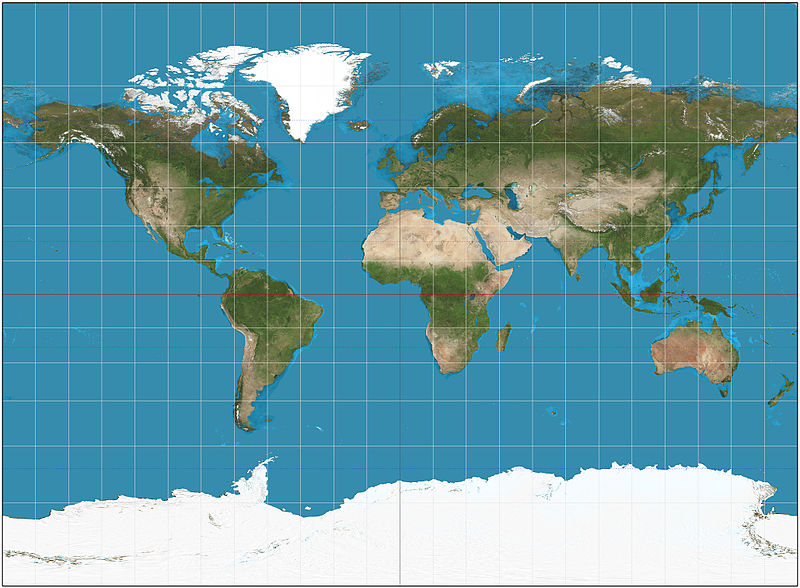
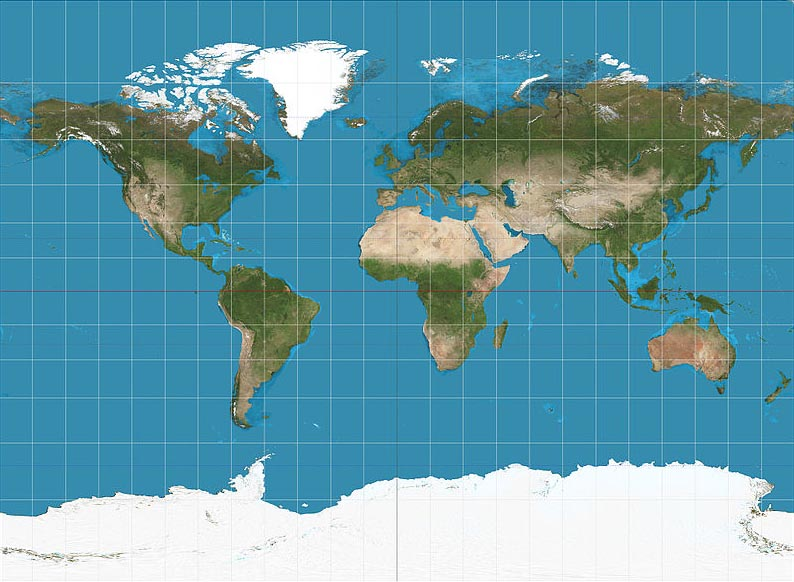
Map styling.

diff --git a/elements/calendar-app.html b/elements/calendar-app.html
@@ -3,7 +3,6 @@ Lets user preview, configure, and print an annual wall calendar.
 -->
 
 <link rel="import" href="../components/polymer/polymer.html">
-<link rel="import" href="../components/globalize-culture/globalize-culture.html">
 <link rel="import" href="sticky-note.html">
 <link rel="import" href="world-map.html">
 <link rel="import" href="year-calendar.html">
@@ -13,7 +12,9 @@ Lets user preview, configure, and print an annual wall calendar.
 <template>
 
   <style>
-  :host {
+  :host,
+  input,
+  select {
     font-family: "Myriad Pro", "Helvetica Neue", Helvetica, Arial, sans-serif;
     font-size: 15px;
   }
@@ -24,6 +25,7 @@ Lets user preview, configure, and print an annual wall calendar.
 
   #container > :not(last-child) {
     margin-bottom: 2em;
+    margin-right: 2em;
   }
 
   world-map {
@@ -49,12 +51,11 @@ Lets user preview, configure, and print an annual wall calendar.
 
   <div id="container">
 
-    <world-map></world-map>
-
     <sticky-note id="intro" class="noprint">
       <h3>Print a handy wall calendar!</h3>
-      <globalize-culture culture="{{culture}}"></globalize-culture>
     </sticky-note>
+
+    <world-map culture="{{culture}}"></world-map>
 
     <year-calendar id="nextYearCalendar" culture="{{culture}}"></year-calendar>
     <year-calendar id="currentYearCalendar" culture="{{culture}}"></year-calendar>

diff --git a/elements/world-map.html b/elements/world-map.html
@@ -1,6 +1,7 @@
 <link rel="import" href="../components/polymer/polymer.html">
+<link rel="import" href="../components/globalize-culture/globalize-culture.html">
 
-<polymer-element name="world-map" noscript>
+<polymer-element name="world-map" attributes="culture">
 
 <template>
 
@@ -9,16 +10,38 @@
     background: white;
     box-shadow: 5px 5px 10px rgba( 0, 0, 0, 0.5 );
     display: inline-block;
+    position: relative;
   }
 
-  img {
+  #map {
     display: block;
+    opacity: 0.75;
     width: 100%;
+  }
+
+  #cultureContainer {
+    background: white;
+    bottom: 0;
+    left: 0;
+    padding: 1em;
+    position: absolute;
+    right: 0;
   }
   </style>
 
-  <img src="../resources/map.jpg">
+  <img id="map" src="../resources/map.jpg">
+  <div id="cultureContainer">
+  <globalize-culture id="cultureSelector" culture="{{culture}}">
+    <div>Pick your preferred language/location:</div>
+  </globalize-culture>
+  </div>
 
 </template>
+
+<script>
+Polymer( "world-map", {
+  applyAuthorStyles: true
+});
+</script>
 
 </polymer-element>

diff --git a/components/globalize-culture/globalize-culture.html b/components/globalize-culture/globalize-culture.html
@@ -382,6 +382,8 @@ GlobalizeCulture = {
 
 Polymer( "globalize-culture", {
 
+  applyAuthorStyles: true,
+
   cultureChanged: function() {
     this.dispatchEvent( new CustomEvent( "globalize-culture-changed" ) );
   },

diff --git a/elements/sticky-note.html b/elements/sticky-note.html
@@ -8,7 +8,7 @@
   :host {
     background: #fffacd;
     box-shadow: 5px 5px 10px rgba( 0, 0, 0, 0.5 );
-    display: block;
+    display: inline-block;
     padding: 1em;
     width: 300px;
   }
